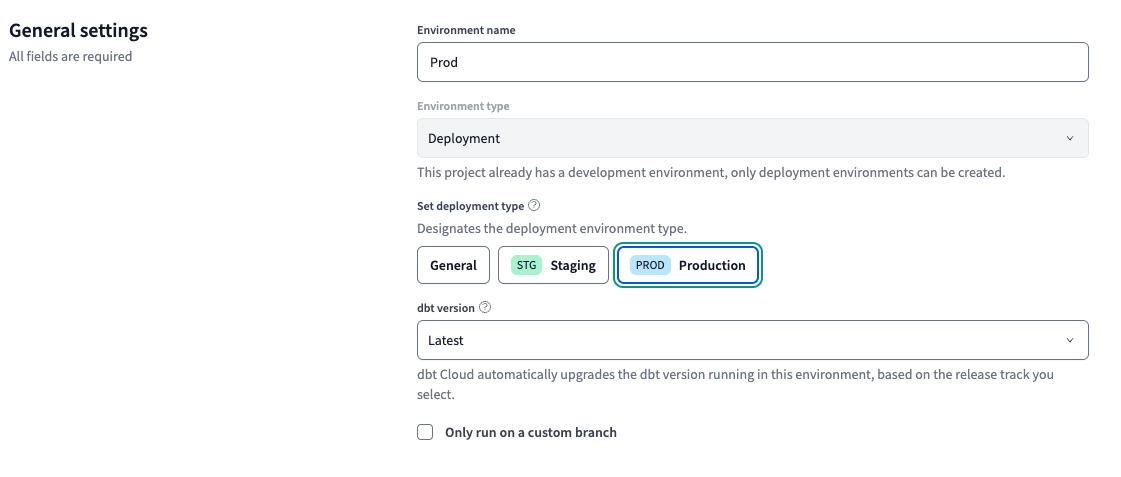
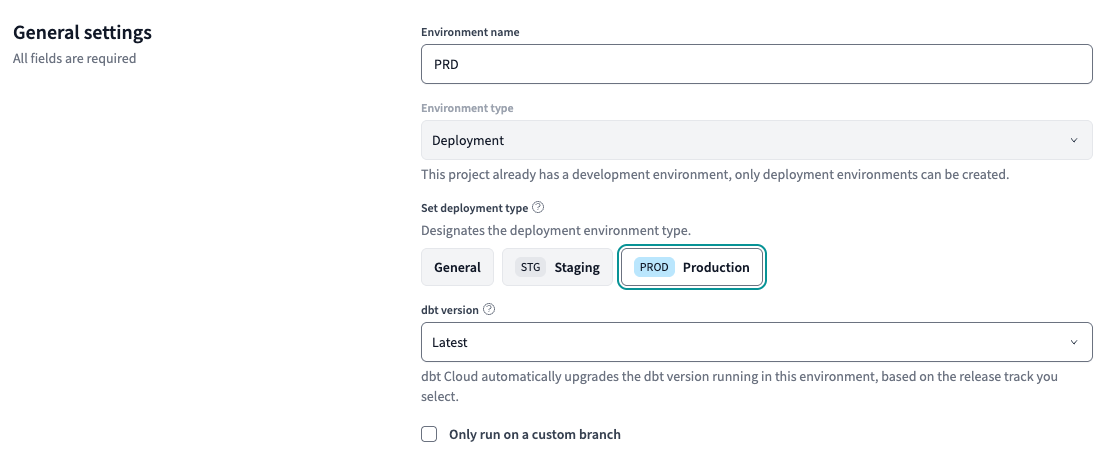
updating snowflake dashboarding site with other minor updates

diff --git a/docs/data-visualization.md b/docs/data-visualization.md
@@ -1,0 +1,136 @@
+# Data Visualization in Snowflake
+
+## Introduction
+
+Once our data has been **ingested, transformed, and validated**, the next step is **visualizing it** to enable better business insights.  
+**Snowflake Dashboards** provide a **built-in, out-of-the-box visualization tool**, allowing users to explore data without third-party BI tools.  
+
+By the end of this section, you will:
+
+- Have a **fully built in Snowflake dashboard**  
+- Use **interactive charts** for business analysis  
+
+
+---
+
+## 1. Creating a New Dashboard in Snowflake
+
+To start visualizing your data:
+
+1. **Go to the Snowflake UI**, navigate to the top left and **+Create > Dashboard**. Give it a name like `Sales Performance`. **Create Dashboard**.
+
+   ![Create Dashboard](./assets/screenshots/SnowViz/SnowViz1.png)
+
+2. Click on **"New Tile** and select **"Create New Dashboard"**.
+
+    ![Create Dashboard](./assets/screenshots/SnowViz/SnowViz2.png)
+
+    and select **"From SQL Worksheet"**.
+
+    ![Create Dashboard](./assets/screenshots/SnowViz/SnowViz3.png)
+
+3. **Set the Context** (`ANALYTICS.DM`).
+
+   ![Create Dashboard](./assets/screenshots/SnowViz/SnowViz4.png)
+
+Go to the next step to create a tile (chart) for the dashboard.
+
+---
+
+## 2. Creating a Tile (Chart) to the Dashboard
+
+1. Enter your SQL query in the **SQL Worksheet** and rename the sheet on the top in the middle.
+
+    ![Create Dashboard](./assets/screenshots/SnowViz/SnowViz5.png)
+
+```sql
+SELECT
+    SUM(ORDER_TOTAL) AS total_revenue
+FROM orders;
+```
+ or if you want to be more explicit:
+
+```sql
+SELECT
+    SUM(ORDER_TOTAL) AS total_revenue
+FROM DM.ORDERS;
+```
+
+2. **Click "Run"** to preview the results.
+
+    Run the query by hitting on Win CTRL + Enter, Mac CMD + Enter or by clicking on the **Run** button on the top right.
+
+---
+
+## 3. Choosing a Chart Type
+
+1. **Click on the "Chart" tab** to visualize the data.
+2. **Select a Chart type**:
+   - **Line Chart** – Show trends over time.
+   - **Bar Chart** – Compare total orders by status.
+   - **Scatter Plot** – Analyze the relationship between order total and quantity.
+   - **Heat Grid** – Visualize order distribution.
+   - **Scorecard** – Display a single KPI value.
+
+    ![Create Dashboard](./assets/screenshots/SnowViz/SnowViz6.png)
+
+3. **Add the Tile to your Dashboard** by clicking on **"Return to <dashboard_name>"**.
+
+    ![Create Dashboard](./assets/screenshots/SnowViz/SnowViz7.png)
+
+Repeat the process to add more tiles to the dashboard.
+
+---
+
+## 4. Enhancing the Dashboard with Filters
+
+1. **Select a Tile** and **Edit Query**.
+
+    If you select the filter icon on the top left, 
+
+    ![Create Dashboard](./assets/screenshots/SnowViz/SnowViz8.png)
+
+    you can see which filters are available by default 
+
+    ![Create Dashboard](./assets/screenshots/SnowViz/SnowViz9.png)
+
+    and the option to add your custom filters.
+
+
+
+2. **Add a Filter** to the query.
+
+    ![Create Dashboard](./assets/screenshots/SnowViz/SnowViz10.png)
+
+
+    ```sql linenums="1"
+    SELECT
+        SUM(ORDER_TOTAL) AS total_revenue
+    FROM DM.ORDERS
+    WHERE :daterange = ordered_at;
+    ```
+
+2. **Return to your Dashboard** and repeat that process for other tiles to add filters.
+
+    !!! note "Dashboard Filters"
+        Filters can be applied to multiple tiles, allowing users to interactively explore data. You can control the filter on the top left.
+        
+        ![Create Dashboard](./assets/screenshots/SnowViz/SnowViz11.png)
+
+3. **Customize the layout** by dragging and resizing tiles for better clarity. Congratulations on building your first Snowflake dashboard.
+
+    ![Create Dashboard](./assets/screenshots/SnowViz/SnowViz12.png)
+
+✅ **Your dashboard is now live and interactive!**  
+Users can **filter, explore, and share insights** directly within Snowflake.
+
+
+
+---
+
+## 🎉 This is the end of the Hands-On Lab. 🎉
+
+
+🔗 **For more References, go to:** [Further Resources](resources.md)
+
+

diff --git a/docs/dbt-deployment.md b/docs/dbt-deployment.md
@@ -18,9 +18,9 @@ A production environment ensures that **only tested, validated models** are expo
 ### **Steps to Set Up a Production Environment**
 1. **Go to dbt Cloud** → Click **Deploy** > **Environments**.
 2. **Create a New Environment**:
-   - **Name**: `Prod`
+   - **Name**: `PRD`
    - **Deployment type**: `Production`
-   - **Conncetion**: `Snowflake_HWZ`
+   - **Connection**: `Snowflake_HWZ`
    - **Deployment credentials**: Use the Snowflake credentials.
    - **Schema**: `default`
 
